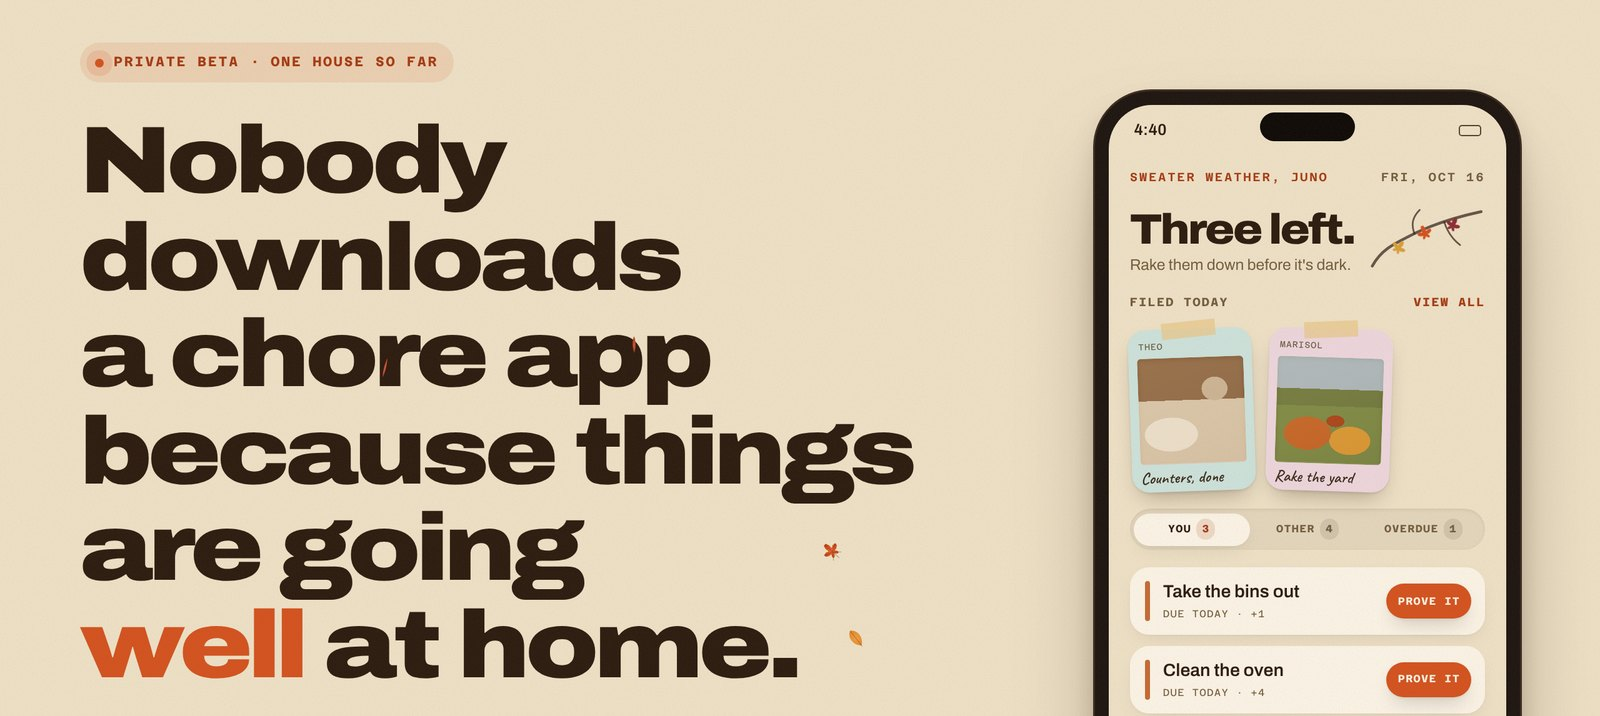
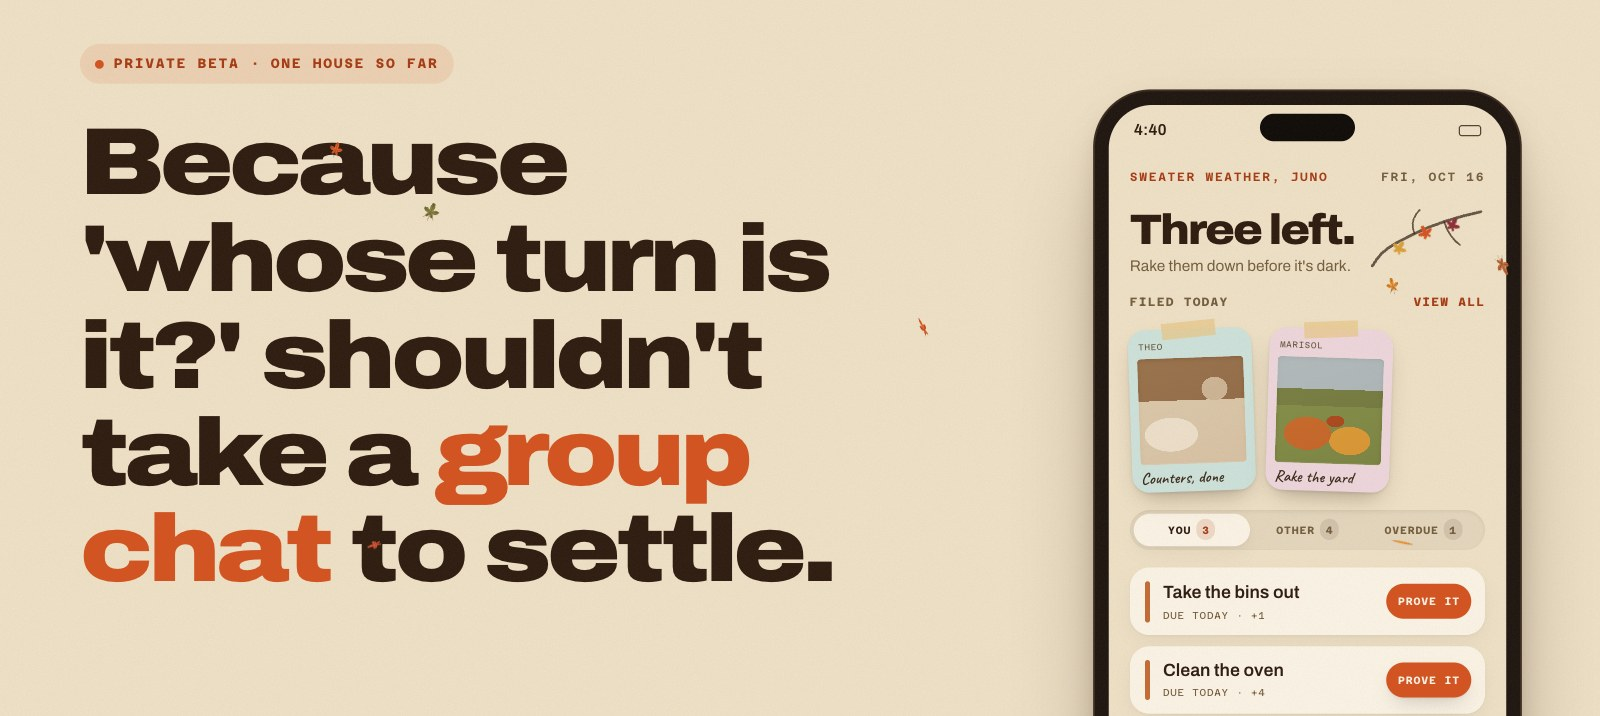
Update onboarding tagline

diff --git a/README.md b/README.md
@@ -1,7 +1,7 @@
 <p align="center">
   <picture>
     <source media="(prefers-color-scheme: dark)" srcset="assets/banner-evening.jpg">
-    <img src="assets/banner-day.jpg" alt="Chorus: nobody downloads a chore app because things are going well at home." width="100%">
+    <img src="assets/banner-day.jpg" alt="Chorus: because 'whose turn is it?' shouldn't take a group chat to settle." width="100%">
   </picture>
 </p>
 
